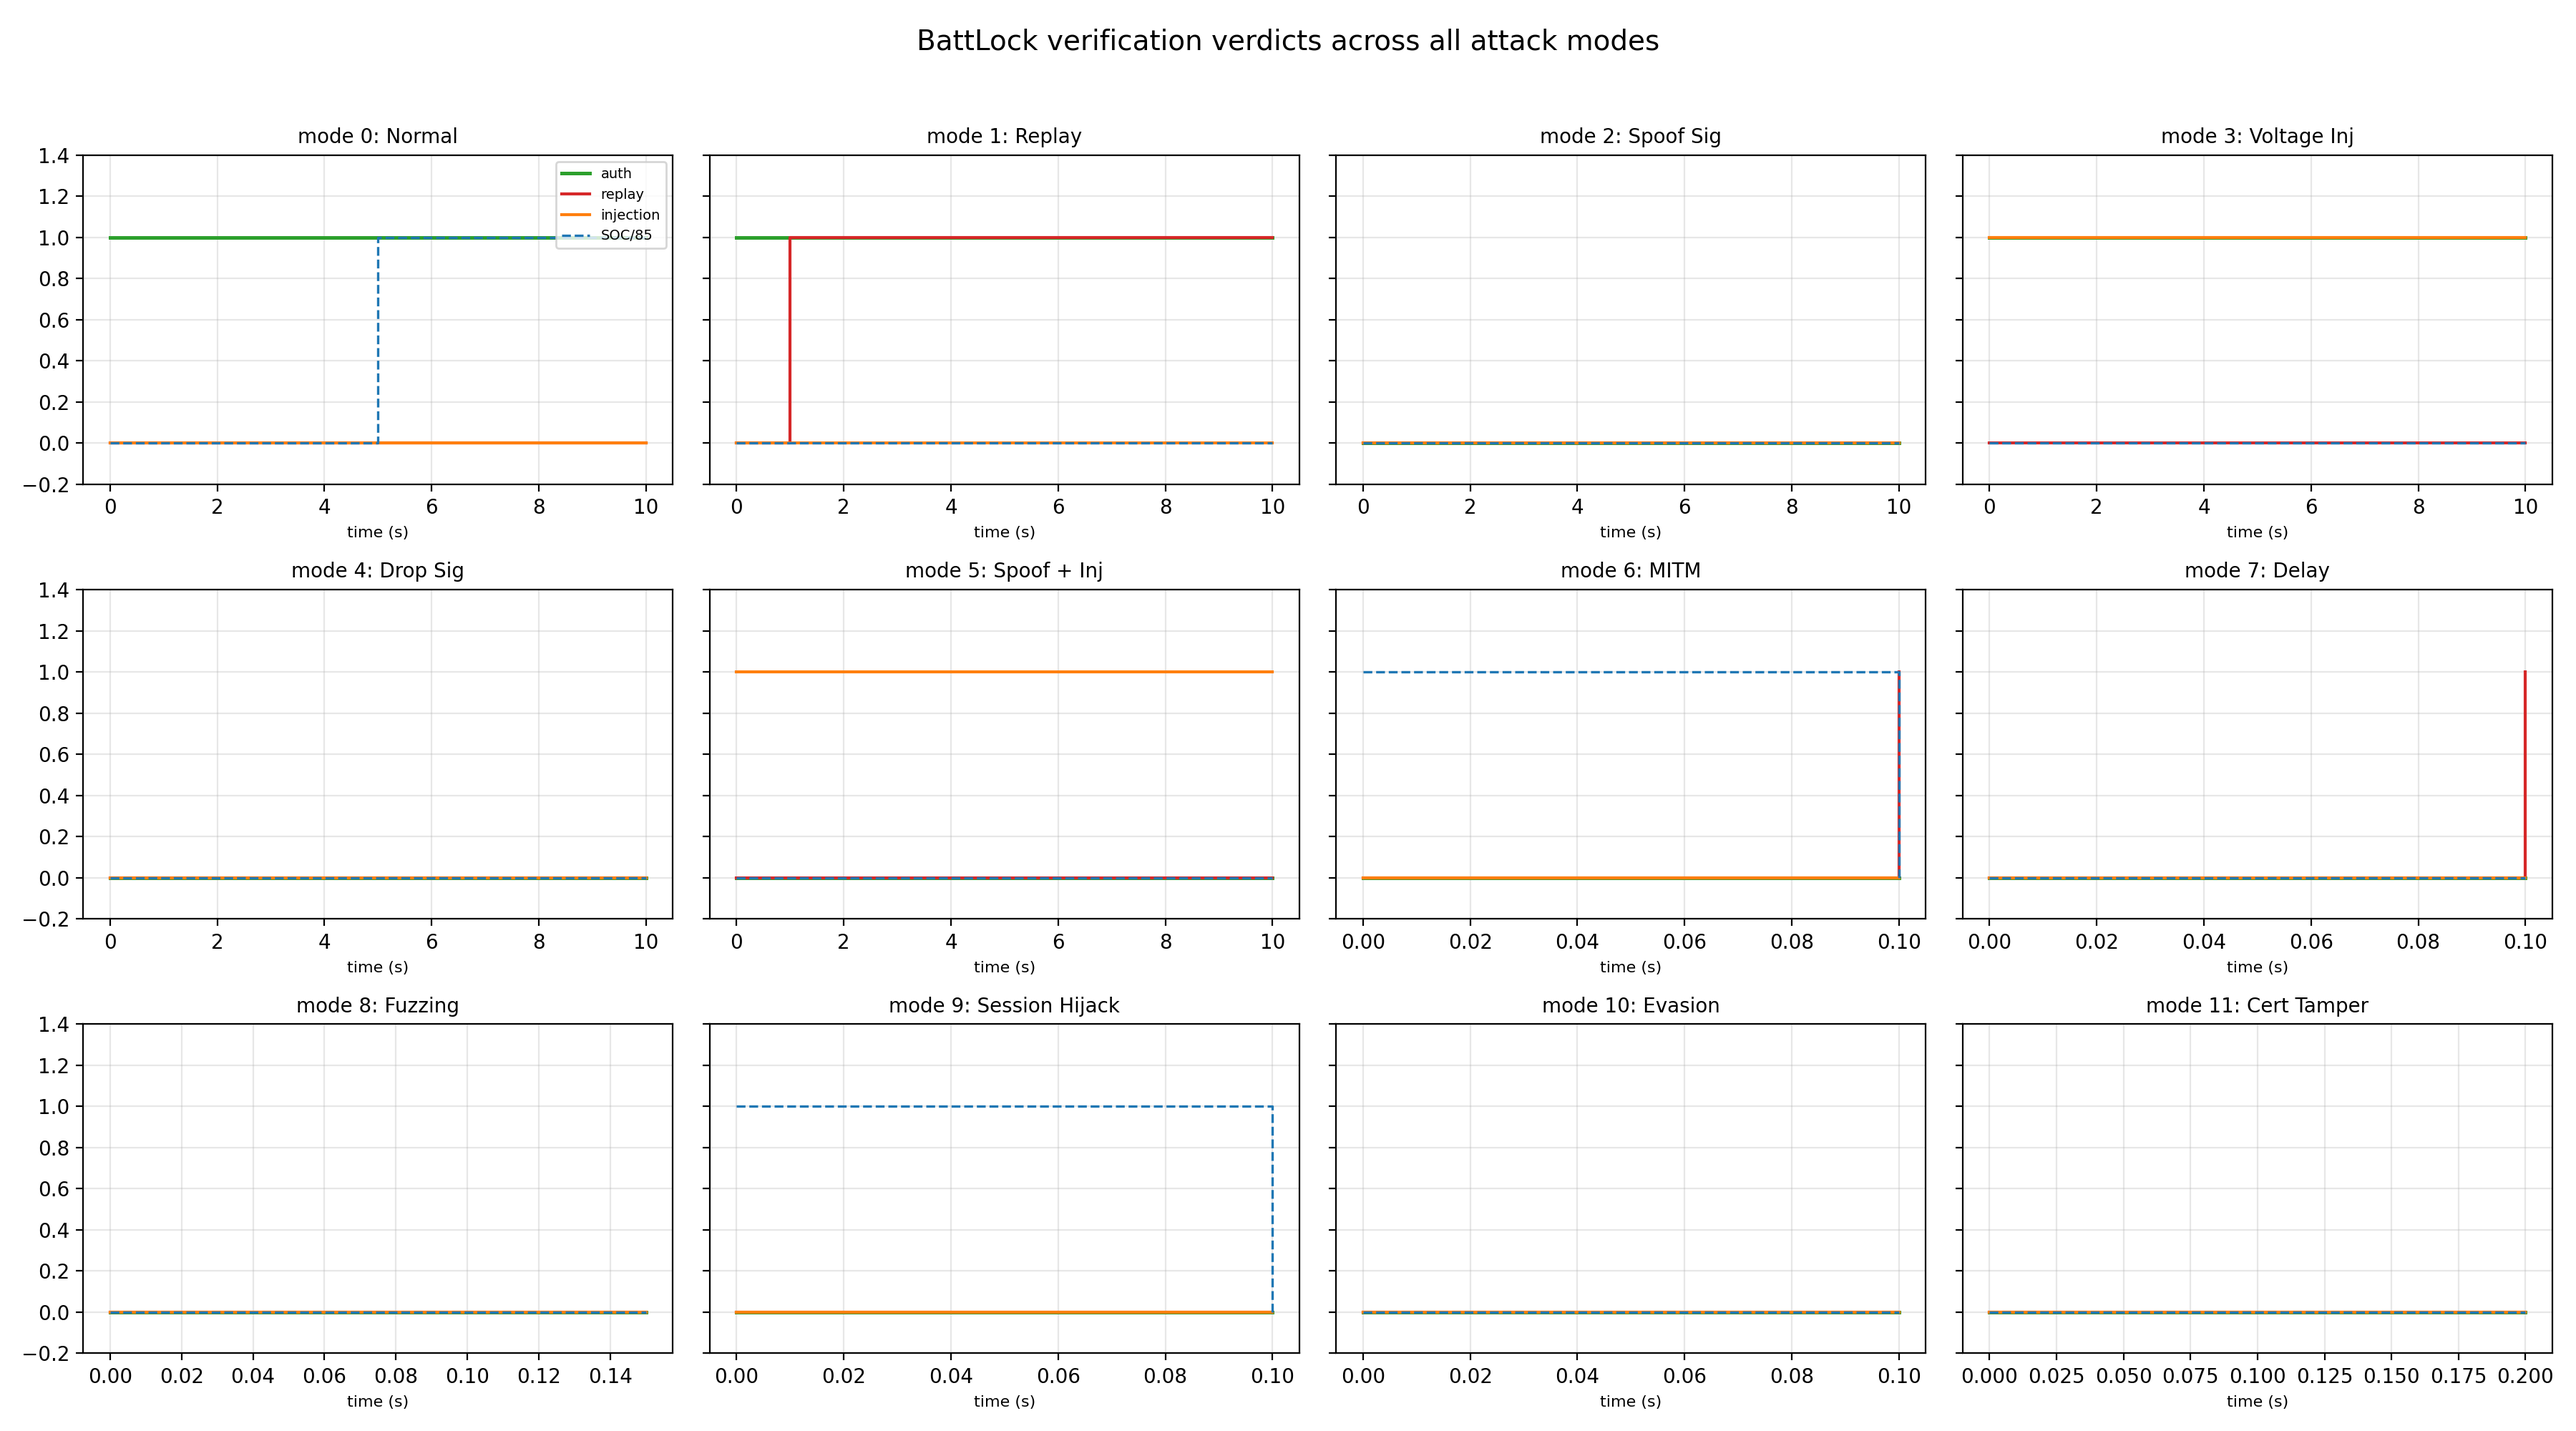
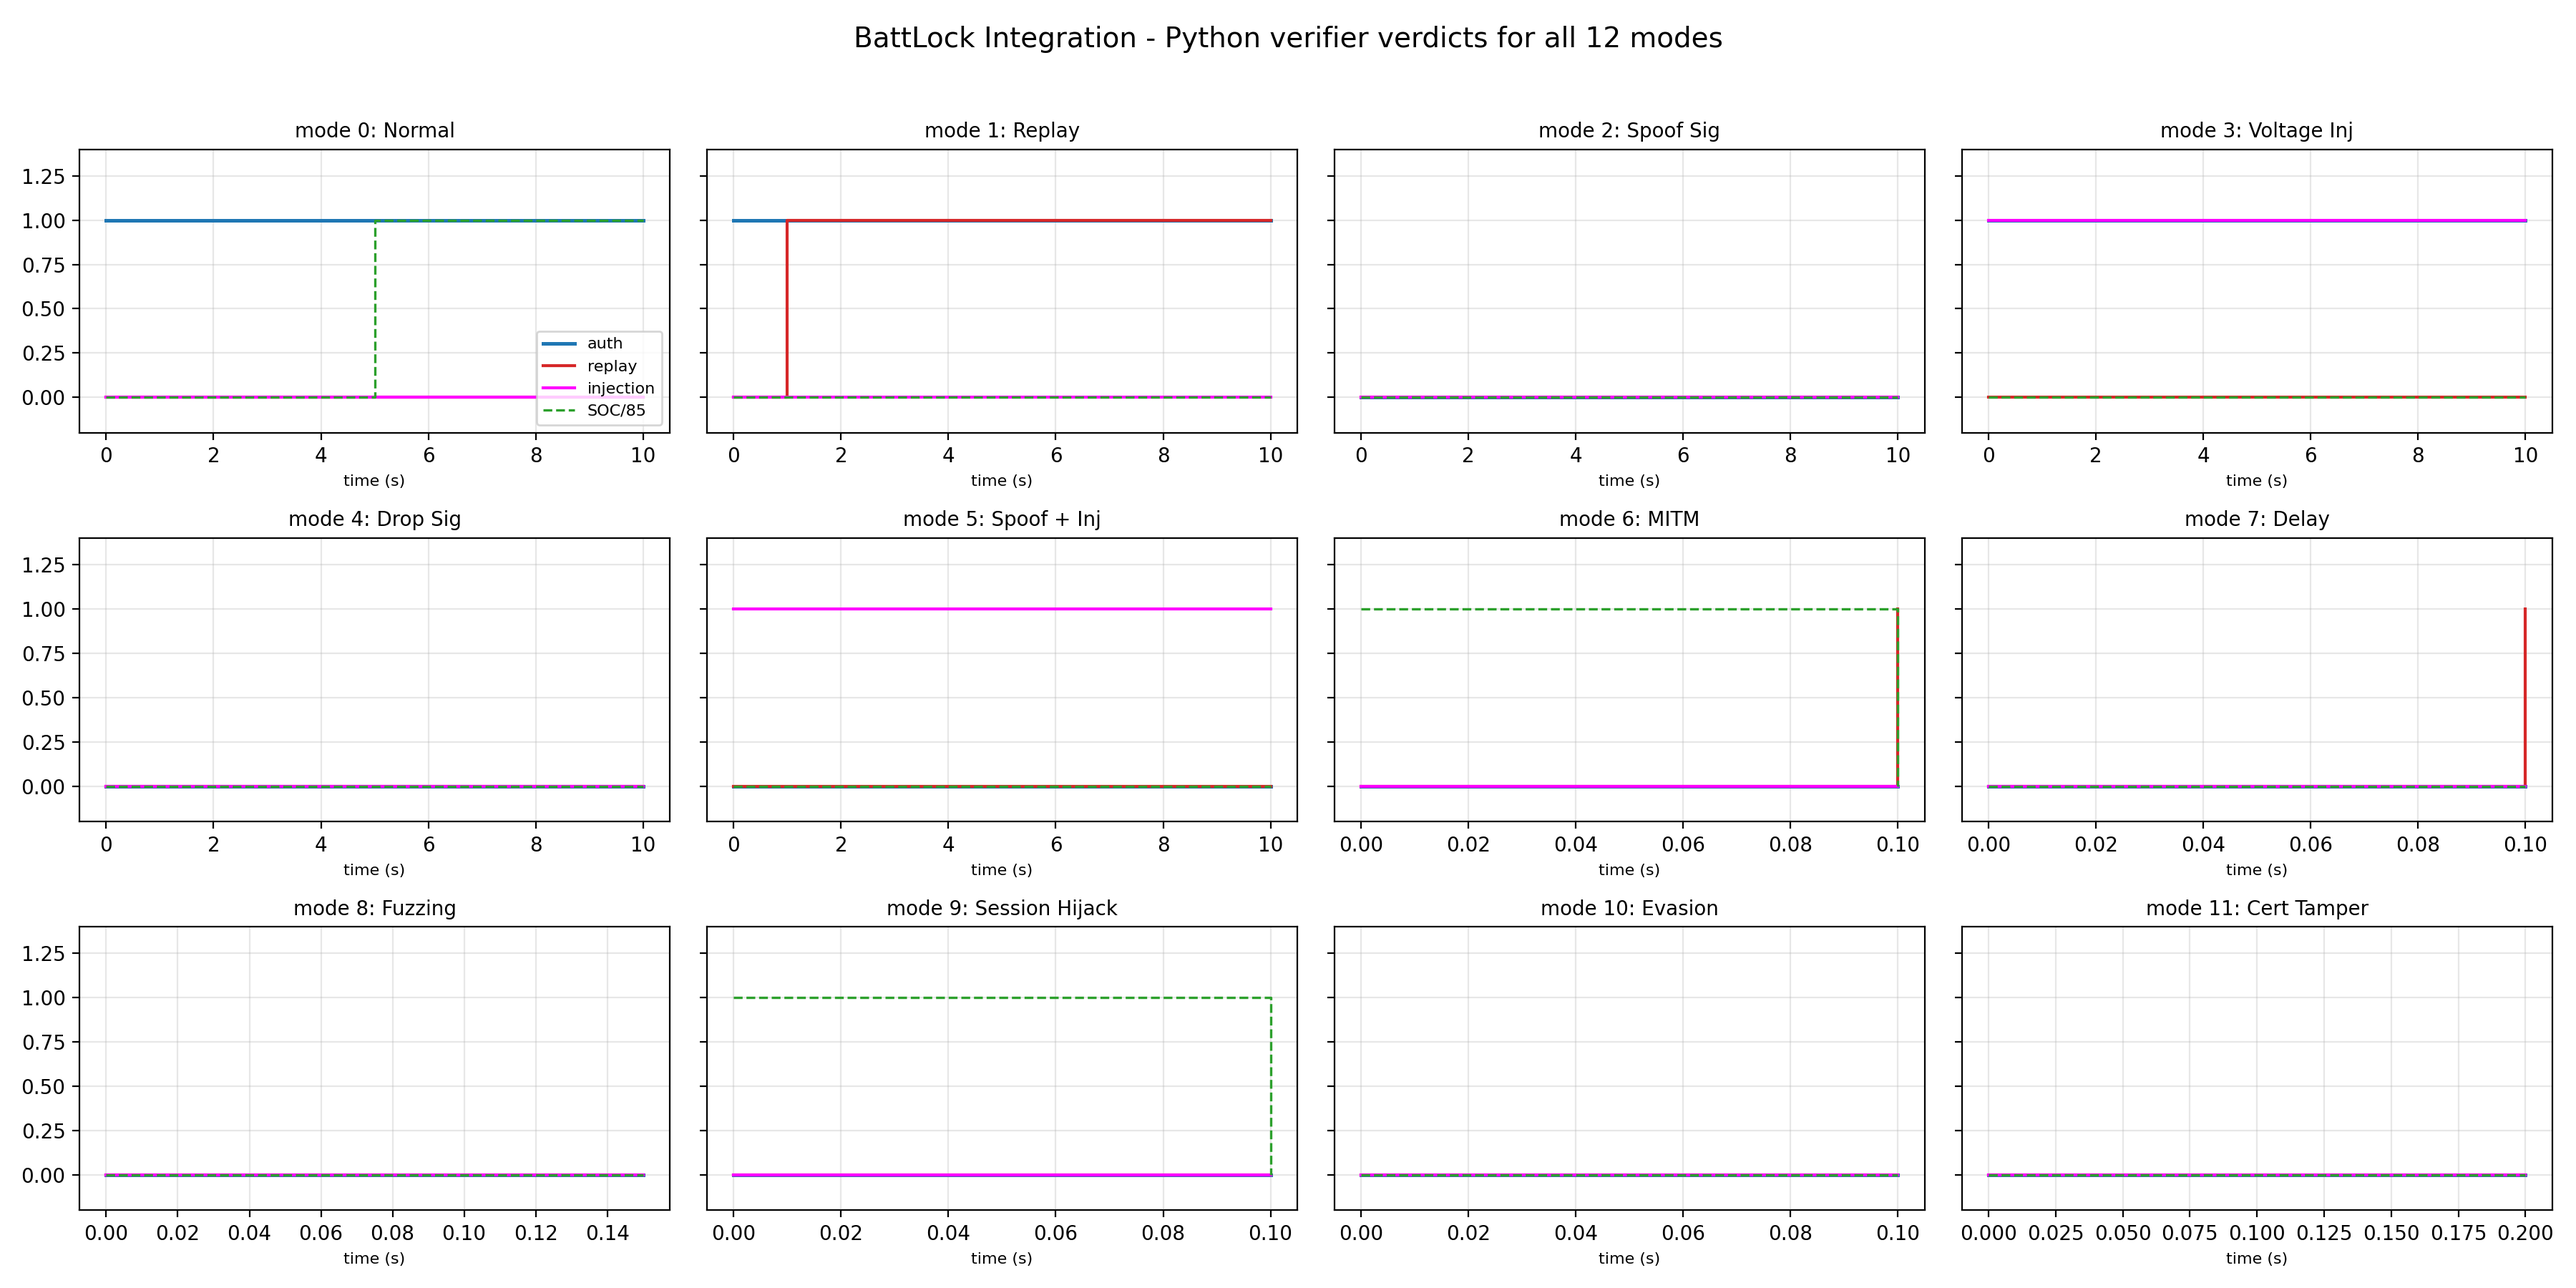
produce two side-by-side plots for all 12 modes
- integration_plot_all.png: Python verifier verdicts per mode

- simulink_plot_all.png: Simulink model verdicts per mode

- plot_all_modes.py now emits both plots in last-meeting style

- make_integration_plots.m mirrors the same two-plot split

diff --git a/simulink/plot_all_modes.py b/simulink/plot_all_modes.py
@@ -1,10 +1,19 @@
 """
-Generate publication-ready plots for all 12 BattLock attack modes.
+Generate the two side-by-side verification plots for all BattLock attack
+modes, matching the style of the MATLAB make_integration_plots.m used in the
+previous presentation:
+
+    Plot 1 (integration_plot_all.png):  Python verifier verdicts
+    Plot 2 (simulink_plot_all.png):     Simulink model verdicts
+
+Each plot shows one subplot per mode (0..11) with the same colors as the
+MATLAB version: auth = blue, replay = red, injection = magenta, SOC/85 = green.
 
 Input:  simulink/frames_verified_all.csv
 Outputs:
-    - simulink/integration_plot_all.png   (overview grid)
-    - simulink/modes_overview.png         (attack-mode summary bar chart)
+    - simulink/integration_plot_all.png
+    - simulink/simulink_plot_all.png
+    - simulink/modes_overview.png   (summary bar chart)
 
 Run with:
     PYTHONPATH=. python simulink/plot_all_modes.py
@@ -35,11 +44,13 @@ DESCRIPTIONS = {
     11: "Cert Tamper",
 }
 
+# Colors match make_integration_plots.m:
+# auth 'b-', replay 'r-', injection 'm-', SOC/85 'g-'
 COLORS = {
-    "auth": "#2ca02c",
+    "auth": "#1f77b4",
     "replay": "#d62728",
-    "injection": "#ff7f0e",
-    "soc": "#1f77b4",
+    "injection": "#ff00ff",
+    "soc": "#2ca02c",
 }
 
 
@@ -68,42 +79,48 @@ def per_mode_summary(rows):
     return summary
 
 
-def plot_mode_grid(rows, out_path):
+def _plot_one_mode(ax, g, keys):
+    """Step-plot one mode using the given column keys."""
+    t = [r["time"] for r in g]
+    ax.step(t, [r[keys["auth"]] for r in g],
+            where="post", color=COLORS["auth"], linewidth=1.8, label="auth")
+    ax.step(t, [r[keys["replay"]] for r in g],
+            where="post", color=COLORS["replay"], linewidth=1.5, label="replay")
+    ax.step(t, [r[keys["injection"]] for r in g],
+            where="post", color=COLORS["injection"], linewidth=1.5, label="injection")
+    ax.step(t, [r["model_soc"] / 85.0 for r in g],
+            where="post", color=COLORS["soc"], linewidth=1.2,
+            linestyle="--", label="SOC/85")
+
+
+def plot_verdicts(rows, out_path, column_keys, title, legend_loc="lower right"):
+    """
+    One subplot per mode, side by side.
+    column_keys: {'auth','replay','injection'} -> CSV column names.
+    """
     modes = sorted({int(r["mode"]) for r in rows})
     n = len(modes)
     cols = 4
     rows_n = int(np.ceil(n / cols))
 
-    fig, axes = plt.subplots(rows_n, cols, figsize=(18, 10), sharey=True)
+    fig, axes = plt.subplots(rows_n, cols, figsize=(18, 9), sharey=True)
     axes = axes.flatten()
 
     for idx, m in enumerate(modes):
         ax = axes[idx]
         g = [r for r in rows if int(r["mode"]) == m]
-        t = [r["time"] for r in g]
-
-        t = [r["time"] for r in g]
-        ax.step(t, [r["py_auth"] for r in g],
-                where="post", color=COLORS["auth"], linewidth=1.8, label="auth")
-        ax.step(t, [r["py_replay"] for r in g],
-                where="post", color=COLORS["replay"], linewidth=1.5, label="replay")
-        ax.step(t, [r["py_injection"] for r in g],
-                where="post", color=COLORS["injection"], linewidth=1.5, label="injection")
-        ax.step(t, [r["model_soc"] / 85.0 for r in g],
-                where="post", color=COLORS["soc"], linewidth=1.2,
-                linestyle="--", label="SOC/85")
-
+        _plot_one_mode(ax, g, column_keys)
         ax.set_ylim(-0.2, 1.4)
         ax.set_title(f"mode {m}: {DESCRIPTIONS[m]}", fontsize=10)
         ax.set_xlabel("time (s)", fontsize=8)
         ax.grid(True, alpha=0.3)
         if idx == 0:
-            ax.legend(loc="upper right", fontsize=7)
+            ax.legend(loc=legend_loc, fontsize=8)
 
     for idx in range(n, len(axes)):
         axes[idx].axis("off")
 
-    fig.suptitle("BattLock verification verdicts across all attack modes", fontsize=14)
+    fig.suptitle(title, fontsize=14)
     plt.tight_layout(rect=[0, 0, 1, 0.96])
     plt.savefig(out_path, dpi=200)
     plt.close()
@@ -143,7 +160,18 @@ def main():
     rows = read_verified(verified_csv)
     summary = per_mode_summary(rows)
 
-    plot_mode_grid(rows, os.path.join(simdir, "integration_plot_all.png"))
+    plot_verdicts(
+        rows,
+        os.path.join(simdir, "integration_plot_all.png"),
+        {"auth": "py_auth", "replay": "py_replay", "injection": "py_injection"},
+        "BattLock Integration - Python verifier verdicts for all 12 modes",
+    )
+    plot_verdicts(
+        rows,
+        os.path.join(simdir, "simulink_plot_all.png"),
+        {"auth": "model_auth", "replay": "model_replay", "injection": "model_injection"},
+        "BattLock Integration - Simulink model verdicts for all 12 modes",
+    )
     plot_summary_bars(summary, os.path.join(simdir, "modes_overview.png"))
 
 

diff --git a/simulink/make_integration_plots.m b/simulink/make_integration_plots.m
@@ -1,13 +1,13 @@
-function make_integration_plots(verified_csv, plot_path, report_path)
+function make_integration_plots(verified_csv, plot_dir, report_path)
 
     if nargin < 1
         verified_csv = 'frames_verified_all.csv';
     end
     if nargin < 2
-        plot_path = 'integration_plot_all_matlab.png';
+        plot_dir = pwd;
     end
     if nargin < 3
-        report_path = 'integration_report_all_matlab.csv';
+        report_path = fullfile(plot_dir, 'integration_report_all_matlab.csv');
     end
 
     T = readtable(verified_csv);
@@ -22,27 +22,19 @@ function make_integration_plots(verified_csv, plot_path, report_path)
     cols = 4;
     rows = ceil(nModes / cols);
 
-    f = figure('Position',[100 100 1600 900], 'Color','w');
-    for k = 1:nModes
-        m = modes(k);
-        g = T(T.mode == m, :);
+    % ---- Plot 1: Python verifier verdicts (one subplot per mode) ----
+    plot_one_set(T, modes, descriptions, ...
+        {'py_auth','py_replay','py_injection'}, ...
+        'BattLock Integration - Python verifier verdicts for all 12 modes', ...
+        fullfile(plot_dir, 'integration_plot_all_matlab.png'), rows, cols);
 
-        ax = subplot(rows, cols, k);
-        stairs(g.time, g.py_auth, 'b-', 'LineWidth', 1.8); hold on;
-        stairs(g.time, g.py_replay, 'r-', 'LineWidth', 1.5);
-        stairs(g.time, g.py_injection, 'm-', 'LineWidth', 1.5);
-        stairs(g.time, g.model_soc/85, 'g-', 'LineWidth', 1.5);
-        ylim([-0.2 1.4]); grid on;
-        title(sprintf('mode %d (%s)', m, descriptions(m)));
-        xlabel('Time (s)');
-        if k == 1
-            legend({'auth','replay','injection','SOC/85'}, 'Location','south');
-        end
-    end
-    sgtitle('BattLock Integration - Python verifier verdicts for all 12 attack modes');
-    saveas(f, plot_path);
-    close(f);
+    % ---- Plot 2: Simulink model verdicts (one subplot per mode) ----
+    plot_one_set(T, modes, descriptions, ...
+        {'model_auth','model_replay','model_injection'}, ...
+        'BattLock Integration - Simulink model verdicts for all 12 modes', ...
+        fullfile(plot_dir, 'simulink_plot_all_matlab.png'), rows, cols);
 
+    % ---- Per-mode agreement report ----
     fid = fopen(report_path, 'w');
     fprintf(fid, 'mode,description,py_auth,model_auth,py_replay,model_replay,py_injection,model_injection,agreement\n');
     for k = 1:nModes
@@ -61,5 +53,28 @@ function make_integration_plots(verified_csv, plot_path, report_path)
     end
     fclose(fid);
     fprintf('Wrote %s\n', report_path);
-    fprintf('Wrote %s\n', plot_path);
+end
+
+function plot_one_set(T, modes, descriptions, keys, title, out_path, rows, cols)
+    f = figure('Position',[100 100 1600 900], 'Color','w');
+    for k = 1:numel(modes)
+        m = modes(k);
+        g = T(T.mode == m, :);
+
+        ax = subplot(rows, cols, k);
+        stairs(g.time, g.(keys{1}), 'b-', 'LineWidth', 1.8); hold on;
+        stairs(g.time, g.(keys{2}), 'r-', 'LineWidth', 1.5);
+        stairs(g.time, g.(keys{3}), 'm-', 'LineWidth', 1.5);
+        stairs(g.time, g.model_soc/85, 'g-', 'LineWidth', 1.5);
+        ylim([-0.2 1.4]); grid on;
+        title(sprintf('mode %d (%s)', m, descriptions(m)));
+        xlabel('Time (s)');
+        if k == 1
+            legend({'auth','replay','injection','SOC/85'}, 'Location','south');
+        end
+    end
+    sgtitle(title);
+    saveas(f, out_path);
+    close(f);
+    fprintf('Wrote %s\n', out_path);
 end
